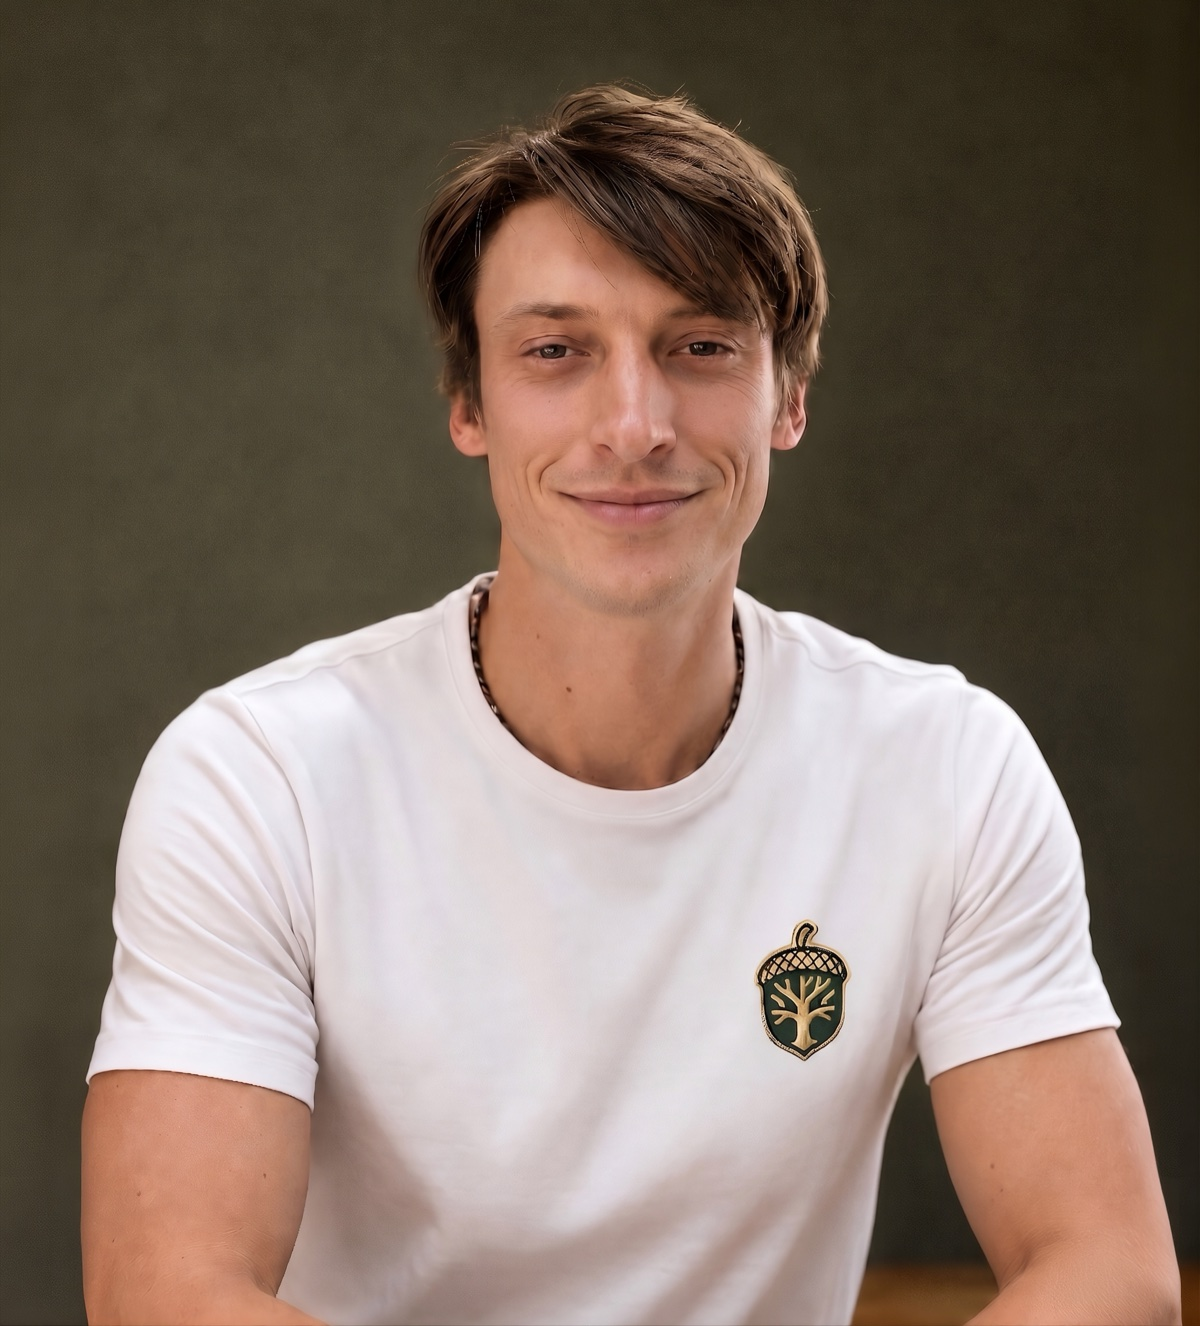
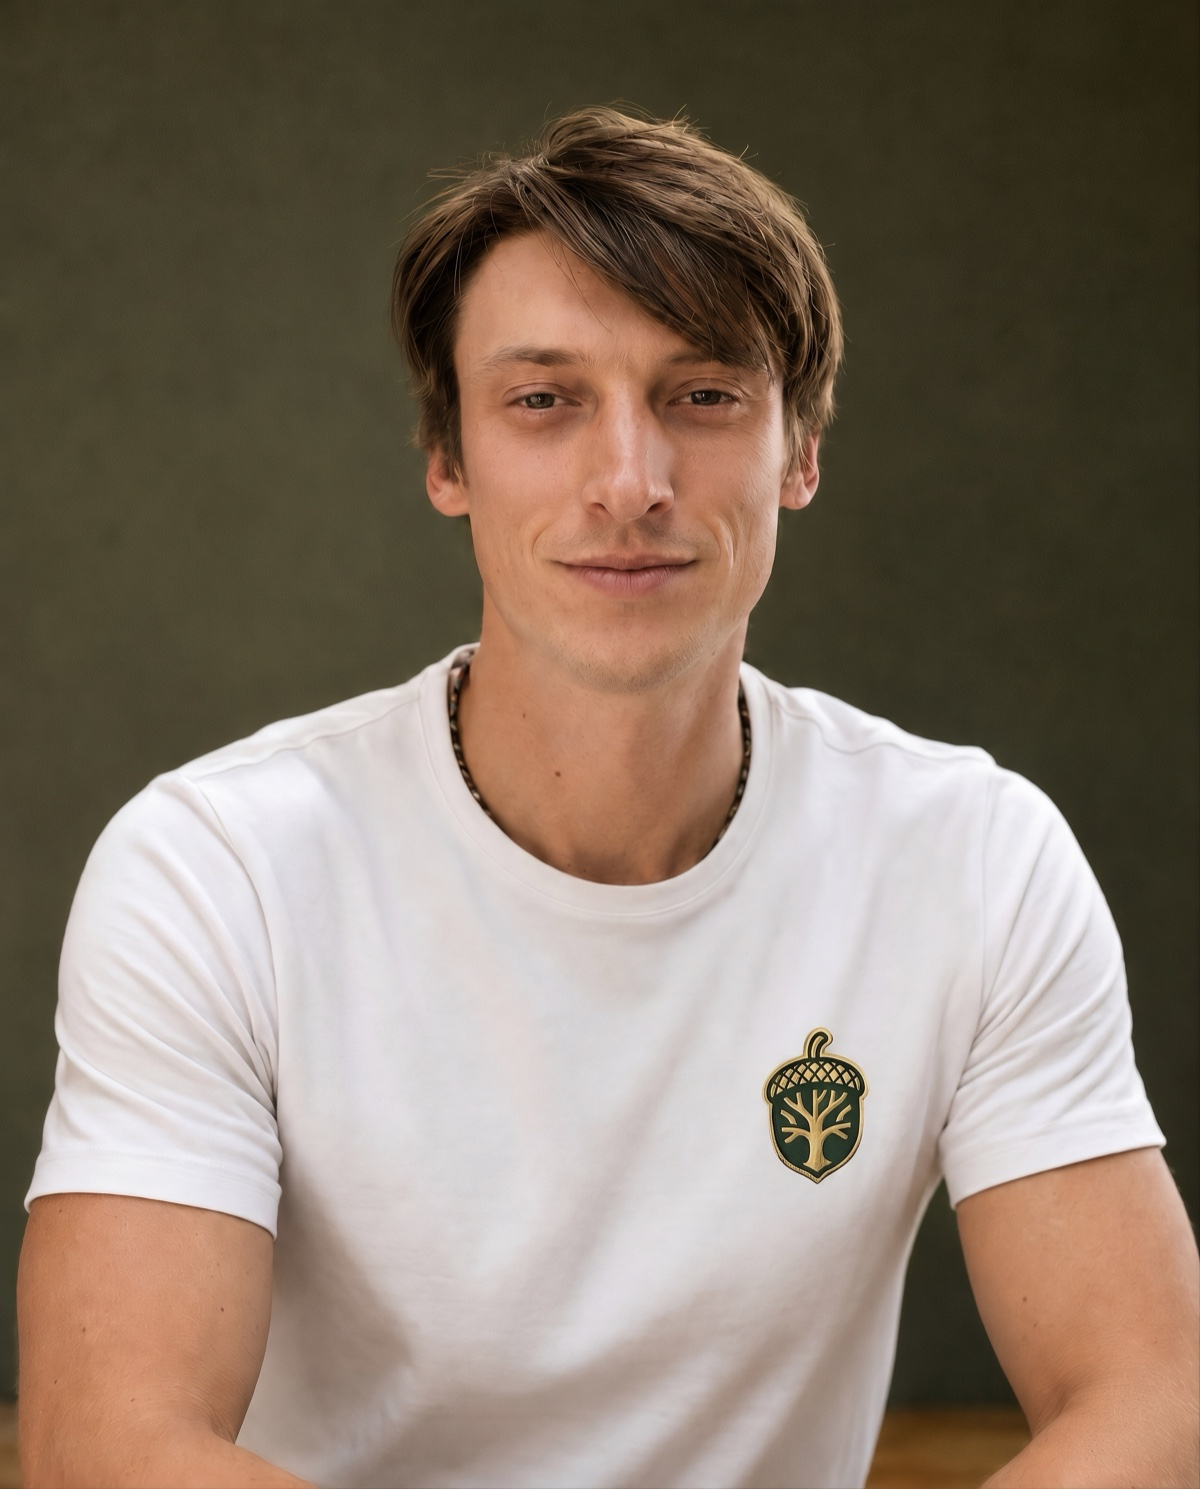
Add photography section with lightbox gallery to the Eykelenboom case
Fase 5 is now its own section instead of one card in the handover
phase. Eight photos selected from the 31 shots of the location shoot:
the portrait, the wheelbarrow run through the achterom, the branded
polo seen from the back, and the terrace and stone wall being built.

FotoGalerij is an editorial grid - the portrait spans 2x2, the rest are
square tiles - opening into a lightbox with prev/next buttons, arrow
keys, ESC, wrap-around, a counter and a scroll lock. Portrait and
landscape shots each keep their own ratio in the lightbox because the
real dimensions travel with each photo. A tile without a src falls back
to a styled placeholder rather than a broken image.

Alongside the gallery, four reasons the shoot mattered: the garden is
the product, stock photos are recognisable, one shoot feeds the site
and the Bedrijfsprofiel both, and a face beats a logo.

Also replaced Sebastiaan's portrait with the real studio shot in the
branded shirt, and gitignored "Final Edit" - 356MB of raw exports that
do not belong in the repo, same rule as the other raw asset folders.

Verified in the browser: grid spans correctly, lightbox navigation and
keyboard both work, no horizontal overflow at 375px, schema still
validates.

diff --git a/components/cases/FotoGalerij.tsx b/components/cases/FotoGalerij.tsx
@@ -1,0 +1,354 @@
+"use client";
+
+import { useCallback, useEffect, useState } from "react";
+import Image from "next/image";
+import { AnimatePresence, motion, useReducedMotion } from "framer-motion";
+import { Container } from "@/components/ui/Container";
+import { Reveal } from "@/components/ui/Reveal";
+import { Eyebrow } from "@/components/ui/Eyebrow";
+import { LineReveal } from "@/components/ui/LineReveal";
+
+/* ============================================================
+   FOTOGRAFIE — de shoot op locatie, met vergrootbare galerij.
+
+   Acht foto's uit de shoot, geselecteerd uit 31 opnamen. Staat er
+   ooit een foto bij zonder `src`, dan valt de tegel netjes terug op
+   een placeholder in plaats van een gebroken beeld.
+   ============================================================ */
+
+const ease = [0.22, 0.61, 0.36, 1] as const;
+
+type Foto = {
+  id: string;
+  /** Leeg laten = nette placeholder-tegel i.p.v. een gebroken beeld. */
+  src?: string;
+  alt: string;
+  caption: string;
+  /** Werkelijke verhouding, zodat de lightbox staand en liggend allebei goed toont. */
+  w: number;
+  h: number;
+  /** Grote tegel in het raster. */
+  groot?: boolean;
+};
+
+const fotos: Foto[] = [
+  {
+    id: "f1",
+    src: "/images/cases/eykelenboom/foto/portret-sebastiaan.jpg",
+    alt: "Sebastiaan Eykelenboom in bedrijfspolo voor een woning in Den Haag",
+    caption: "De hovenier zelf",
+    w: 1600,
+    h: 2400,
+    groot: true,
+  },
+  {
+    id: "f2",
+    src: "/images/cases/eykelenboom/foto/kruiwagen-stenen.jpg",
+    alt: "Sebastiaan Eykelenboom met een kruiwagen vol natuursteen in een Haagse achterom",
+    caption: "Materiaal naar de achtertuin",
+    w: 1600,
+    h: 2400,
+  },
+  {
+    id: "f3",
+    src: "/images/cases/eykelenboom/foto/merk-op-de-rug.jpg",
+    alt: "Werkpolo met het logo van Hovenier Eykelenboom op de rug, tijdens het werk in de tuin",
+    caption: "Het merk op de werkvloer",
+    w: 1600,
+    h: 2400,
+  },
+  {
+    id: "f4",
+    src: "/images/cases/eykelenboom/foto/vlonder-boren.jpg",
+    alt: "Sebastiaan Eykelenboom schroeft vlonderplanken vast op een terras in Den Haag",
+    caption: "Vlonder leggen",
+    w: 1600,
+    h: 2400,
+  },
+  {
+    id: "f5",
+    src: "/images/cases/eykelenboom/foto/zagen-vlonderplank.jpg",
+    alt: "Vlonderplank op maat zagen met een cirkelzaag tijdens de aanleg van een terras",
+    caption: "Op maat zagen",
+    w: 1600,
+    h: 1067,
+  },
+  {
+    id: "f6",
+    src: "/images/cases/eykelenboom/foto/muur-metselen.jpg",
+    alt: "Sebastiaan Eykelenboom metselt een natuurstenen muurtje tegen een oude Haagse gevel",
+    caption: "Het muurtje metselen",
+    w: 1600,
+    h: 1067,
+  },
+  {
+    id: "f7",
+    src: "/images/cases/eykelenboom/foto/steen-plaatsen.jpg",
+    alt: "Handen die een natuursteen op zijn plek leggen in een tuinmuurtje",
+    caption: "Steen voor steen",
+    w: 1600,
+    h: 1067,
+  },
+  {
+    id: "f8",
+    src: "/images/cases/eykelenboom/foto/muur-afwerken.jpg",
+    alt: "Het natuurstenen muurtje wordt afgewerkt naast de terrasdeuren",
+    caption: "Afwerken tot het klopt",
+    w: 1600,
+    h: 1067,
+  },
+];
+
+const waarom = [
+  {
+    nr: "01",
+    title: "De tuin is het product",
+    body: "Bij een hovenier kun je de dienst niet omschrijven - je moet hem laten zien. Een foto van een opgeleverde tuin doet meer dan drie alinea's over vakmanschap.",
+  },
+  {
+    nr: "02",
+    title: "Stockfoto's herkent iedereen",
+    body: "Een perfect Amerikaans gazon onder een strakblauwe hemel zegt: dit is niet mijn werk. Precies op het moment dat iemand overweegt een vreemde zijn tuin binnen te laten.",
+  },
+  {
+    nr: "03",
+    title: "Beeld voedt meer dan de site",
+    body: "Dezelfde shoot vult de website, het Google Bedrijfsprofiel en de social kanalen. Foto's op je Bedrijfsprofiel zijn bovendien een van de dingen waar je zelf invloed op hebt.",
+  },
+  {
+    nr: "04",
+    title: "Een gezicht wint van een logo",
+    body: "Mensen bellen een mens. Een portret van Sebastiaan bij naam maakt van een onbekend bedrijf iemand waar je een afspraak mee maakt.",
+  },
+];
+
+/* Nette placeholder-tegel: duidelijk als plaatshouder herkenbaar,
+   maar in de huisstijl, zodat de sectie nu al af oogt. */
+function Placeholder({ label }: { label: string }) {
+  return (
+    <div className="relative flex h-full w-full flex-col items-center justify-center gap-3 bg-s2">
+      <div aria-hidden className="pointer-events-none absolute inset-0 grid-lines opacity-40" />
+      <div aria-hidden className="pointer-events-none absolute -right-10 -top-12 h-40 w-40 rounded-full bg-blue/15 blur-[60px]" />
+      <span className="relative grid h-11 w-11 place-items-center chamf-sm border border-blue/30 bg-blue/10 text-blue-text">
+        <svg width="20" height="20" viewBox="0 0 24 24" fill="none" stroke="currentColor" strokeWidth="1.7" strokeLinecap="round" strokeLinejoin="round" aria-hidden>
+          <path d="M3 8.5A2.5 2.5 0 0 1 5.5 6h1.8l1.2-2h6.9l1.2 2h1.9A2.5 2.5 0 0 1 21 8.5v9A2.5 2.5 0 0 1 18.5 20h-13A2.5 2.5 0 0 1 3 17.5z" />
+          <circle cx="12" cy="12.5" r="3.4" />
+        </svg>
+      </span>
+      <span className="relative px-4 text-center text-[0.72rem] font-semibold leading-tight text-g500">{label}</span>
+    </div>
+  );
+}
+
+export function FotoGalerij() {
+  const [open, setOpen] = useState<number | null>(null);
+  const reduce = useReducedMotion();
+
+  const close = useCallback(() => setOpen(null), []);
+  const prev = useCallback(() => setOpen((i) => (i === null ? i : (i - 1 + fotos.length) % fotos.length)), []);
+  const next = useCallback(() => setOpen((i) => (i === null ? i : (i + 1) % fotos.length)), []);
+
+  /* ESC, pijltjes en scroll-lock zolang de lightbox openstaat. */
+  useEffect(() => {
+    if (open === null) return;
+    const onKey = (e: KeyboardEvent) => {
+      if (e.key === "Escape") close();
+      if (e.key === "ArrowLeft") prev();
+      if (e.key === "ArrowRight") next();
+    };
+    document.addEventListener("keydown", onKey);
+    const vorige = document.body.style.overflow;
+    document.body.style.overflow = "hidden";
+    return () => {
+      document.removeEventListener("keydown", onKey);
+      document.body.style.overflow = vorige;
+    };
+  }, [open, close, prev, next]);
+
+  const huidige = open === null ? null : fotos[open];
+
+  return (
+    <section className="relative overflow-hidden bg-s0 py-20 md:py-28">
+      <div className="pointer-events-none absolute inset-0 grid-lines opacity-20" />
+      <div className="animate-glow pointer-events-none absolute -left-40 top-24 h-[520px] w-[520px] rounded-full bg-blue/12 blur-[150px]" />
+
+      <Container className="relative">
+        <div className="grid gap-8 lg:grid-cols-[1fr_0.85fr] lg:items-end">
+          <div>
+            <Reveal>
+              <Eyebrow>Fase 5 · Fotografie op locatie</Eyebrow>
+            </Reveal>
+            <LineReveal
+              as="h2"
+              className="mt-5 text-3xl leading-[1.06] sm:text-4xl lg:text-[2.8rem]"
+              lines={[{ text: "Je kunt vakmanschap" }, { text: "niet beschrijven.", className: "text-blue-text" }]}
+            />
+          </div>
+          <Reveal delay={0.12}>
+            <p className="max-w-md text-lg leading-relaxed text-g300 lg:justify-self-end">
+              Daarom trokken we er een dag op uit: echte tuinen, echt werk en de hovenier zelf.
+              Geen stockbeeld, maar het bewijs waar de hele site op leunt.
+            </p>
+          </Reveal>
+        </div>
+
+        {/* ── raster ── */}
+        <div className="mt-12 grid auto-rows-[minmax(0,1fr)] grid-cols-2 gap-3 [grid-auto-rows:1fr] md:grid-cols-4">
+          {fotos.map((f, i) => (
+            /* De span-klassen horen op de Reveal-wrapper: dat is het
+               echte grid-item. Op de knop daarbinnen doen ze niets. */
+            <Reveal
+              key={f.id}
+              delay={(i % 4) * 0.05}
+              className={f.groot ? "col-span-2 row-span-2" : ""}
+            >
+              <button
+                type="button"
+                onClick={() => setOpen(i)}
+                aria-label={`Vergroot: ${f.caption}`}
+                className="group relative block h-full w-full overflow-hidden chamf chamf-lg border border-white/10 bg-s1 transition-all duration-300 ease-[var(--ease-brand)] hover:-translate-y-1 hover:border-blue/50"
+              >
+                {!f.groot && <span aria-hidden className="block aspect-square w-full" />}
+                <span className="absolute inset-0">
+                  {f.src ? (
+                    <Image
+                      src={f.src}
+                      alt={f.alt}
+                      fill
+                      sizes={f.groot ? "(max-width: 768px) 92vw, 50vw" : "(max-width: 768px) 46vw, 25vw"}
+                      className="object-cover object-center transition-transform duration-500 ease-[var(--ease-brand)] group-hover:scale-[1.05]"
+                    />
+                  ) : (
+                    <Placeholder label={f.caption} />
+                  )}
+                </span>
+                <span
+                  aria-hidden
+                  className="absolute inset-0 bg-gradient-to-t from-s0/85 via-transparent to-transparent opacity-0 transition-opacity duration-300 group-hover:opacity-100"
+                />
+                {/* vergrootglas-hint */}
+                <span
+                  aria-hidden
+                  className="absolute right-3 top-3 grid h-8 w-8 translate-y-1 place-items-center chamf-sm bg-blue text-white opacity-0 transition-all duration-200 group-hover:translate-y-0 group-hover:opacity-100"
+                >
+                  <svg width="14" height="14" viewBox="0 0 24 24" fill="none" stroke="currentColor" strokeWidth="2.4" strokeLinecap="round">
+                    <circle cx="11" cy="11" r="7" />
+                    <path d="m21 21-4.3-4.3M11 8v6M8 11h6" />
+                  </svg>
+                </span>
+                <span className="absolute inset-x-3 bottom-3 translate-y-2 text-left text-[0.75rem] font-semibold leading-tight text-paper opacity-0 transition-all duration-300 group-hover:translate-y-0 group-hover:opacity-100">
+                  {f.caption}
+                </span>
+              </button>
+            </Reveal>
+          ))}
+        </div>
+
+        <Reveal delay={0.1}>
+          <p className="mt-4 text-sm text-g600">Klik op een foto om te vergroten.</p>
+        </Reveal>
+
+        {/* ── waarom het uitmaakt ── */}
+        <div className="mt-16 grid gap-4 sm:grid-cols-2">
+          {waarom.map((w, i) => (
+            <Reveal key={w.nr} delay={(i % 2) * 0.07}>
+              <div className="flex h-full items-start gap-4 chamf chamf-lg border border-white/10 bg-s1/50 p-6 backdrop-blur-md transition-colors duration-200 hover:border-blue/40 md:p-7">
+                <span className="font-display text-xs font-bold text-blue-text">{w.nr}</span>
+                <span>
+                  <span className="block font-display text-lg font-extrabold leading-tight tracking-tight text-paper">
+                    {w.title}
+                  </span>
+                  <span className="mt-2 block text-[0.95rem] leading-relaxed text-g500">{w.body}</span>
+                </span>
+              </div>
+            </Reveal>
+          ))}
+        </div>
+      </Container>
+
+      {/* ═══ lightbox ═══ */}
+      <AnimatePresence>
+        {huidige && (
+          <motion.div
+            className="fixed inset-0 z-[100] flex items-center justify-center bg-s0/92 p-4 backdrop-blur-md sm:p-8"
+            initial={reduce ? false : { opacity: 0 }}
+            animate={{ opacity: 1 }}
+            exit={{ opacity: 0 }}
+            transition={{ duration: 0.2 }}
+            onClick={close}
+            role="dialog"
+            aria-modal="true"
+            aria-label={huidige.caption}
+          >
+            {/* sluiten */}
+            <button
+              type="button"
+              onClick={close}
+              aria-label="Sluiten"
+              className="absolute right-4 top-4 grid h-11 w-11 place-items-center chamf-sm border border-white/15 bg-s1/80 text-paper transition-colors hover:border-blue hover:text-blue-text sm:right-6 sm:top-6"
+            >
+              <svg width="18" height="18" viewBox="0 0 24 24" fill="none" stroke="currentColor" strokeWidth="2.2" strokeLinecap="round">
+                <path d="M6 6l12 12M18 6 6 18" />
+              </svg>
+            </button>
+
+            {/* vorige / volgende */}
+            {[
+              { fn: prev, label: "Vorige foto", pos: "left-3 sm:left-6", d: "m15 5-7 7 7 7" },
+              { fn: next, label: "Volgende foto", pos: "right-3 sm:right-6", d: "m9 5 7 7-7 7" },
+            ].map((b) => (
+              <button
+                key={b.label}
+                type="button"
+                onClick={(e) => {
+                  e.stopPropagation();
+                  b.fn();
+                }}
+                aria-label={b.label}
+                className={`absolute top-1/2 z-10 grid h-11 w-11 -translate-y-1/2 place-items-center chamf-sm border border-white/15 bg-s1/80 text-paper transition-colors hover:border-blue hover:text-blue-text ${b.pos}`}
+              >
+                <svg width="18" height="18" viewBox="0 0 24 24" fill="none" stroke="currentColor" strokeWidth="2.2" strokeLinecap="round" strokeLinejoin="round">
+                  <path d={b.d} />
+                </svg>
+              </button>
+            ))}
+
+            <motion.figure
+              key={huidige.id}
+              initial={reduce ? false : { opacity: 0, scale: 0.97 }}
+              animate={{ opacity: 1, scale: 1 }}
+              transition={{ duration: 0.25, ease }}
+              className="relative w-full max-w-4xl"
+              onClick={(e) => e.stopPropagation()}
+            >
+              <div className="flex max-h-[74vh] w-full items-center justify-center overflow-hidden chamf chamf-lg border border-[var(--color-line-strong)] bg-s1 shadow-[0_50px_120px_-40px_rgba(0,0,0,0.9)]">
+                {huidige.src ? (
+                  /* width/height i.p.v. fill: staand en liggend beeld houden
+                     zo allebei hun eigen verhouding binnen dezelfde lijst. */
+                  <Image
+                    src={huidige.src}
+                    alt={huidige.alt}
+                    width={huidige.w}
+                    height={huidige.h}
+                    sizes="(max-width: 1024px) 92vw, 900px"
+                    className="max-h-[74vh] w-auto object-contain"
+                  />
+                ) : (
+                  <div className="aspect-[4/3] w-full">
+                    <Placeholder label={`${huidige.caption} · foto volgt`} />
+                  </div>
+                )}
+              </div>
+              <figcaption className="mt-4 flex flex-wrap items-center justify-between gap-3">
+                <span className="text-[0.95rem] font-semibold text-paper">{huidige.caption}</span>
+                <span className="chamf-sm border border-white/10 px-2.5 py-1 text-xs text-g500">
+                  {(open ?? 0) + 1} / {fotos.length}
+                </span>
+              </figcaption>
+            </motion.figure>
+          </motion.div>
+        )}
+      </AnimatePresence>
+    </section>
+  );
+}

diff --git a/app/cases/hovenier-eykelenboom/page.tsx b/app/cases/hovenier-eykelenboom/page.tsx
@@ -11,6 +11,7 @@ import { Byline, CtaBlock } from "@/components/page/blocks";
 import { CasesCarousel } from "@/components/sections/CasesCarousel";
 import { Core30Boom } from "@/components/cases/Core30Boom";
 import { FormuleDrieluik } from "@/components/cases/FormuleDrieluik";
+import { FotoGalerij } from "@/components/cases/FotoGalerij";
 import { caseEykelenboom } from "@/lib/site";
 import { caseSchema } from "@/lib/schema";
 
@@ -75,16 +76,11 @@ const devPunten = [
 const slotfase = [
   {
     nr: "01",
-    title: "Fotografie op locatie",
-    body: "Echte projecten, echt werk en de hovenier zelf - vastgelegd op locatie in Den Haag. Stockfoto's overtuigen niemand die op het punt staat een vreemde zijn tuin binnen te laten.",
-  },
-  {
-    nr: "02",
     title: "Oplevering en uitleg",
     body: "Bij de livegang is alles overgedragen: hoe de site werkt, hoe projecten erbij komen en waar de aanvragen binnenkomen. Geen afhankelijkheid, wel een aanspreekpunt.",
   },
   {
-    nr: "03",
+    nr: "02",
     title: "Meetbaar vanaf dag één",
     body: "Aanvragen zijn herleidbaar, dus het effect is geen gevoel maar een getal. Daardoor weten we dat de teller van 2 naar 24 per maand ging - en blijven we zien wat er werkt.",
   },
@@ -543,12 +539,15 @@ export default function Page() {
         </Container>
       </section>
 
-      {/* ═══════════ 9 · FASE 5 · FOTOGRAFIE, OPLEVERING & METEN ═══════════ */}
+      {/* ═══════════ 9 · FASE 5 · FOTOGRAFIE ═══════════ */}
+      <FotoGalerij />
+
+      {/* ═══════════ 10 · FASE 6 · OPLEVERING & METEN ═══════════ */}
       <section className="on-light relative border-t border-ink/5 py-20 md:py-28">
         <Container>
           <div className="max-w-2xl">
             <Reveal>
-              <Eyebrow>Fase 5 · Fotografie, oplevering en meten</Eyebrow>
+              <Eyebrow>Fase 6 · Oplevering en meten</Eyebrow>
             </Reveal>
             <LineReveal
               as="h2"
